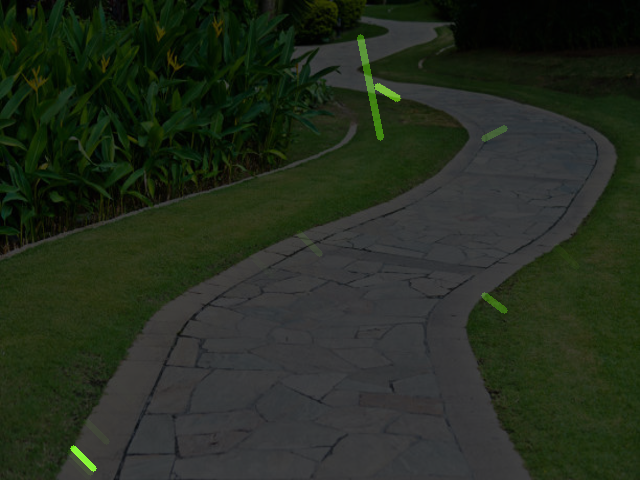
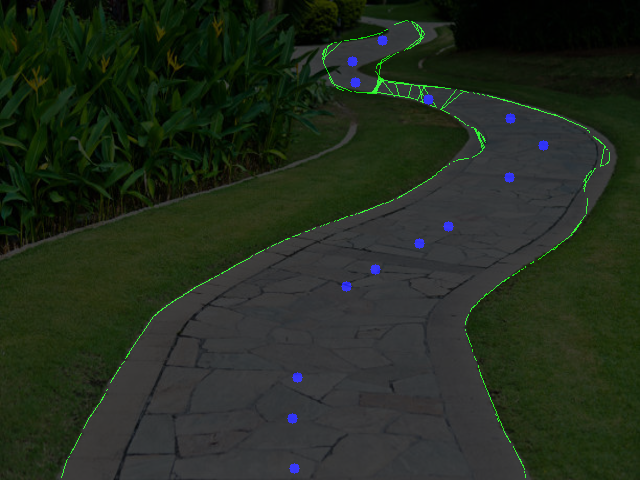
create waypoints

diff --git a/calc_steering_angle.py b/calc_steering_angle.py
@@ -42,7 +42,7 @@ class HandCodedLaneFollower(object):
         if len(lane_lines) == 0:
             return frame
 
-        new_steering_angle, curr_heading_image = compute_steering_angle(frame, lane_lines)
+        curr_heading_image, waypoints = compute_steering_angle(frame, lane_lines)
 
         show_image("7-heading", curr_heading_image)
 
@@ -182,29 +182,37 @@ def compute_steering_angle(frame, lane_lines):
         return 90
 
     if (_CURVES):
-        steering_angles = []
-        img_with_lines = np.zeros_like(frame)
-        for lane_line in lane_lines:
-            for x1, y1, x2, y2 in lane_line:
-                x_mid = int((x1 + x2) / 2)
-                y_mid = int((y1 + y2) / 2)
-                y_diff = y2 - y1
-                x_diff = x2 - x1
-                if (x_diff == 0 or y_diff == 0):
-                    continue # skip vertical or horizontal lines
+        x_threshold = 5
+        y_threshold = 15
+        waypoint_steps = 20
+        waypoints = []
 
-                slope = -(x_diff / y_diff) # slope of normal line passing through the center of the line segment
-                intercept = y_mid - slope * x_mid
-                x_arb = x_mid + 20
-                y_arb = int(slope * x_arb + intercept)
-                mid_line = np.zeros_like(frame)
-                cv2.line(mid_line, (x_mid, y_mid), (x_arb, y_arb), (100, 255, 0), 5)
-                
-                steering_angle = math.degrees(math.atan(slope))
-                steering_angles.append(steering_angle)
-                img_with_lines = cv2.addWeighted(img_with_lines, 0.7, mid_line, 1, 1)
-        print(steering_angles)
-        return steering_angles, img_with_lines
+        img_with_lines = np.zeros_like(frame)
+        img_with_lines = display_lines(img_with_lines, lane_lines, line_width=1)
+
+        lower_green = np.array([0,250,0])
+        upper_green = np.array([1,255,1])
+        mask = cv2.inRange(img_with_lines, lower_green, upper_green)
+        coord = cv2.findNonZero(mask) # already sorted by y
+        num_lines, _, _ = np.shape(coord)
+        if coord is not None:
+            for i in range(0, num_lines-1):
+                if i % waypoint_steps == 0:
+                    x1 = coord[i][0][0]
+                    y1 = coord[i][0][1]
+                    x2 = coord[i+1][0][0]
+                    y2 = coord[i+1][0][1]
+
+                    if (abs(x1 - x2) < x_threshold):
+                        continue # don't draw circle between points too close together
+                    if (y1 == y2):
+                        if (len(waypoints) > 0 and (abs(y1 - waypoints[-1][1]) < y_threshold)):
+                            continue
+                        x_mid = int((x1 + x2) / 2)
+                        cv2.circle(img_with_lines, (x_mid, y1), 5, (0, 0, 255), -1)
+                        waypoints.append((x_mid, y1))
+
+        return img_with_lines, waypoints
 
     if len(lane_lines) == 1:
         mid_start_x, mid_start_y, mid_end_x, mid_end_y = lane_lines[0][0]
@@ -235,22 +243,6 @@ def compute_steering_angle(frame, lane_lines):
 
     return steering_angle, heading_line_img
 
-# Unused.
-def stabilize_steering_angle(curr_steering_angle, new_steering_angle, num_of_lane_lines, max_angle_deviation_two_lines=5, max_angle_deviation_one_lane=1):
-    if num_of_lane_lines == 2 :
-        # if both lane lines detected, then we can deviate more
-        max_angle_deviation = max_angle_deviation_two_lines
-    else :
-        # if only one lane detected, don't deviate too much
-        max_angle_deviation = max_angle_deviation_one_lane
-    
-    angle_deviation = new_steering_angle - curr_steering_angle
-    if abs(angle_deviation) > max_angle_deviation:
-        stabilized_steering_angle = int(curr_steering_angle
-                                        + max_angle_deviation * angle_deviation / abs(angle_deviation))
-    else:
-        stabilized_steering_angle = new_steering_angle
-    return stabilized_steering_angle
 
 ############################
 # Utility Functions
